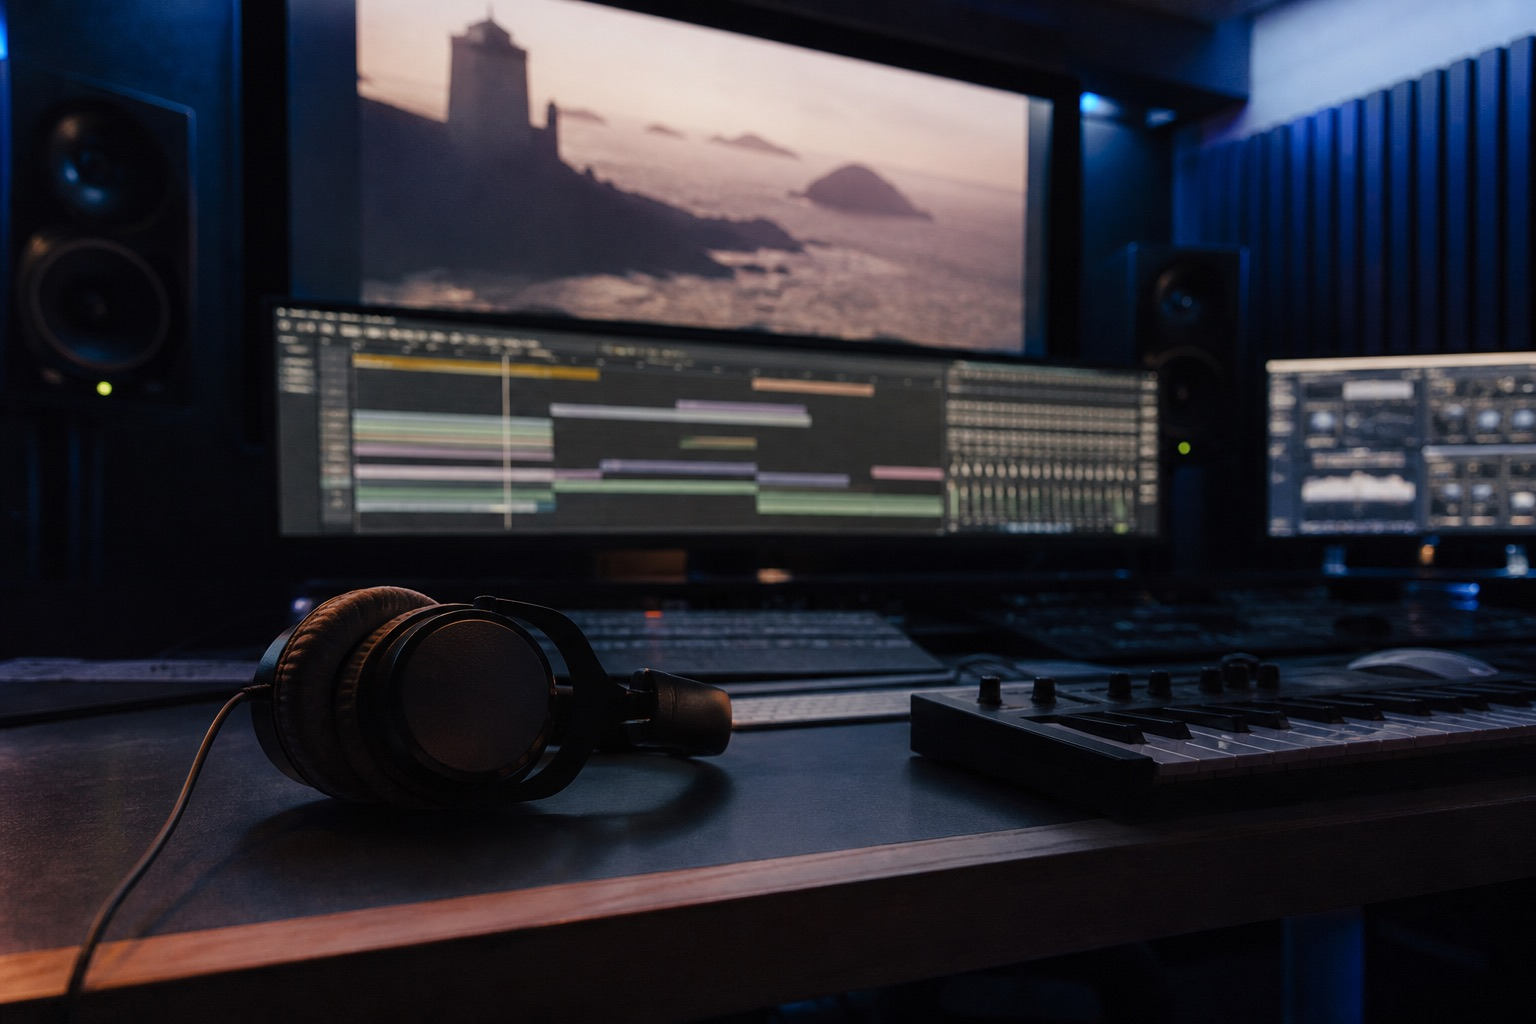
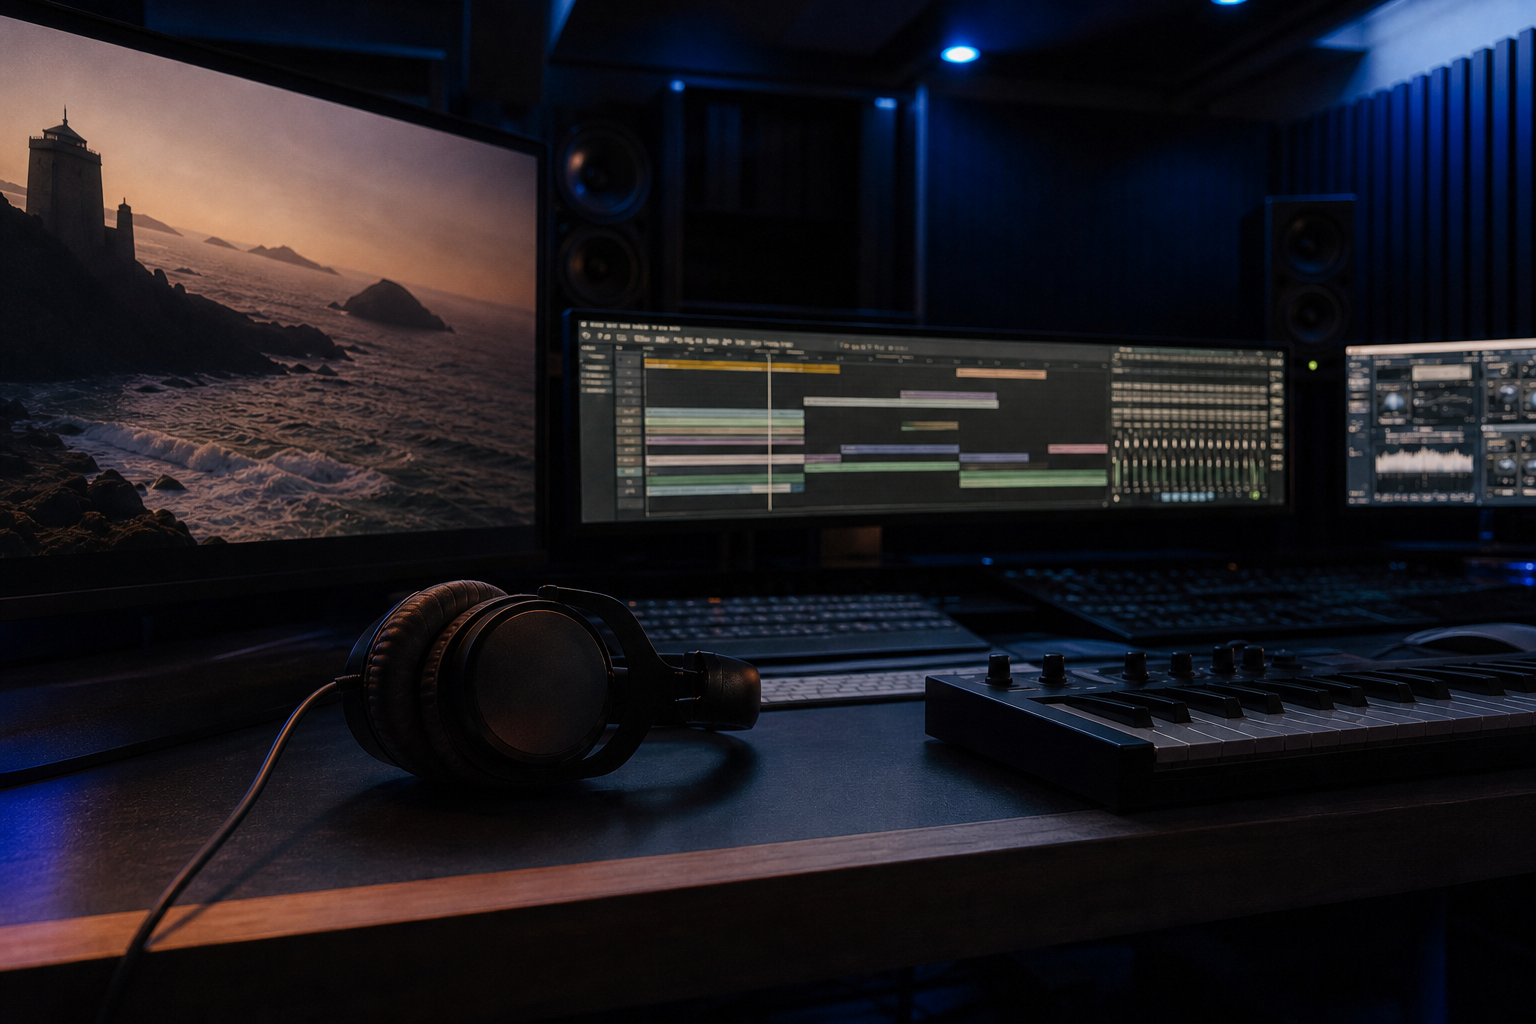
포스트 프로덕션 컷에 영상 모니터를 넣고 제목 세로 리듬을 페이지 전체에서 맞춘다.

diff --git a/components/path-section.tsx b/components/path-section.tsx
@@ -102,7 +102,7 @@ function SpectrumRow({ row }: { row: PathRow }) {
         >
           <div className="aspect-[16/7] md:aspect-auto md:h-[16.5rem] lg:h-[18.5rem]">
             <img
-              src={row.image}
+              src={`${row.image}${row.image.includes("path-post") ? "?v=2" : ""}`}
               alt={row.titleLine2 ?? row.title}
               className="h-full w-full object-cover"
               style={{ objectPosition: row.imagePos ?? "center" }}
@@ -127,8 +127,8 @@ function SpectrumRow({ row }: { row: PathRow }) {
             shown && "is-in",
           )}
         >
-          <p className="font-label text-xs tracking-[0.16em] text-[#e0b15a] uppercase">{row.kicker}</p>
-          <h3 className="font-label mt-3 text-[1.8rem] leading-[1.15] font-bold tracking-[0.03em] text-[#e0b15a] uppercase md:text-[2rem]">
+          <p className="font-label text-xs tracking-[0.04em] text-[#e0b15a] uppercase">{row.kicker}</p>
+          <h3 className="font-label mt-3 text-[1.8rem] font-bold tracking-[0.03em] text-[#e0b15a] uppercase md:text-[2rem]">
             {row.title}
             {row.titleLine2 ? (
               <>
@@ -176,8 +176,8 @@ export function PathSection() {
     <section id="path" className="relative overflow-x-hidden bg-[#0c1424]">
       <div className="mx-auto max-w-6xl px-5 pt-24 pb-8 text-center md:px-8 md:pt-32">
         <div ref={head.ref} className={cn("spectrum-head", head.shown && "is-in")}>
-          <p className="text-sm font-bold tracking-wide text-[#e0b15a]">교육과정</p>
-          <h2 className="font-display mt-3 text-2xl leading-snug tracking-tight text-white md:text-4xl">
+          <p className="text-sm font-bold tracking-[0.04em] text-[#e0b15a]">교육과정</p>
+          <h2 className="font-display section-title text-2xl text-white md:text-4xl">
             배우게 되는 것, 나아가게 되는 곳
           </h2>
         </div>

diff --git a/components/faculty-section.tsx b/components/faculty-section.tsx
@@ -216,7 +216,7 @@ export function FacultySection() {
       <div className="mx-auto max-w-6xl px-5 md:px-8">
         <div className="max-w-2xl">
           <p className="section-kicker">교수진</p>
-          <h2 className="font-display mt-3 text-4xl leading-[1.2] text-foreground md:text-5xl">
+          <h2 className="font-display section-title text-4xl text-foreground md:text-5xl">
             현장을 아는 교수진이
             <br />
             당신의 꿈을 설계합니다
@@ -293,7 +293,7 @@ export function FacultySection() {
               </div>
               <div className="px-6 py-6 pr-14 sm:px-8">
                 <p className="text-sm font-semibold text-primary">{active.role}</p>
-                <h3 id="faculty-modal-title" className="font-display mt-2 text-3xl text-foreground">
+                <h3 id="faculty-modal-title" className="font-display mt-3 text-3xl text-foreground">
                   {active.name}
                 </h3>
                 <div className="mt-4 inline-flex items-center gap-3 border border-primary/20 bg-primary/5 px-3 py-2">

diff --git a/components/admissions-section.tsx b/components/admissions-section.tsx
@@ -24,7 +24,7 @@ export function AdmissionsSection() {
       <div className="mx-auto max-w-6xl px-5 md:px-8">
         <div className="max-w-3xl">
           <p className="section-kicker">모집요강</p>
-          <h2 className="font-display mt-3 text-4xl leading-[1.2] text-foreground md:text-5xl">
+          <h2 className="font-display section-title text-4xl text-foreground md:text-5xl">
             2027학년도 수시 모집요강
           </h2>
           <p className="mt-3 text-base leading-relaxed text-muted-foreground md:mt-4 md:text-lg">
@@ -107,7 +107,7 @@ export function AdmissionsSection() {
 
         <div className="mt-12 md:mt-16">
           <p className="section-kicker">실기고사</p>
-          <h3 className="font-display mt-3 text-2xl font-bold leading-tight text-foreground md:text-4xl">
+          <h3 className="font-display section-title text-2xl font-bold text-foreground md:text-4xl">
             07 실기고사
           </h3>
 

diff --git a/components/hero-section.tsx b/components/hero-section.tsx
@@ -10,7 +10,7 @@ export function HeroSection() {
         <div className="max-w-xl md:max-w-[34rem]">
           <BrandMark className="text-5xl md:text-6xl" />
           <p className="mt-7 text-lg font-semibold tracking-tight text-primary md:text-xl">2027 모집요강</p>
-          <h1 className="font-display mt-4 text-[clamp(1.85rem,6.8vw,3.9rem)] leading-[1.25] tracking-tight text-foreground">
+          <h1 className="font-display mt-3 text-[clamp(1.85rem,6.8vw,3.9rem)] text-foreground">
             <span className="block whitespace-nowrap">수도권 유일 국립 4년제</span>
             <span className="block whitespace-nowrap">실용음악학전공</span>
           </h1>

diff --git a/app/globals.css b/app/globals.css
@@ -101,13 +101,15 @@
 @utility font-display {
   font-family: var(--font-sans);
   font-weight: 700;
-  letter-spacing: -0.025em;
+  letter-spacing: -0.03em;
+  line-height: 1.25;
 }
 
 @utility font-label {
   font-family: var(--font-label);
   font-weight: 600;
   letter-spacing: 0.02em;
+  line-height: 1.25;
 }
 
 @utility section-kicker {
@@ -115,7 +117,16 @@
   font-size: 0.9375rem;
   font-weight: 700;
   letter-spacing: 0.04em;
+  line-height: 1.25;
   color: var(--primary);
+}
+
+@utility section-title {
+  margin-top: 0.75rem;
+  font-family: var(--font-sans);
+  font-weight: 700;
+  letter-spacing: -0.03em;
+  line-height: 1.25;
 }
 
 @utility poster-wash {

diff --git a/components/cta-footer.tsx b/components/cta-footer.tsx
@@ -44,7 +44,7 @@ export function CtaFooter() {
       <section id="apply" className="relative overflow-hidden border-t border-foreground/10">
         <div className="mx-auto max-w-6xl px-5 py-28 md:px-8 md:py-36">
           <p className="section-kicker">문의</p>
-          <h2 className="font-display mt-4 max-w-3xl text-4xl leading-[1.15] text-foreground md:text-6xl">
+          <h2 className="font-display section-title max-w-3xl text-4xl text-foreground md:text-6xl">
             당신의 소리를
             <br />
             세상에 들려줄 시간

diff --git a/components/works-section.tsx b/components/works-section.tsx
@@ -50,7 +50,7 @@ export function WorksSection() {
         <div className="flex flex-col gap-2 sm:flex-row sm:items-end sm:justify-between sm:gap-8">
           <div>
             <p className="section-kicker">주요 성과</p>
-            <h2 className="font-display mt-2 whitespace-nowrap text-2xl tracking-tight text-foreground md:text-4xl">
+            <h2 className="font-display section-title whitespace-nowrap text-2xl text-foreground md:text-4xl">
               한경인의 주요 성과
             </h2>
           </div>
